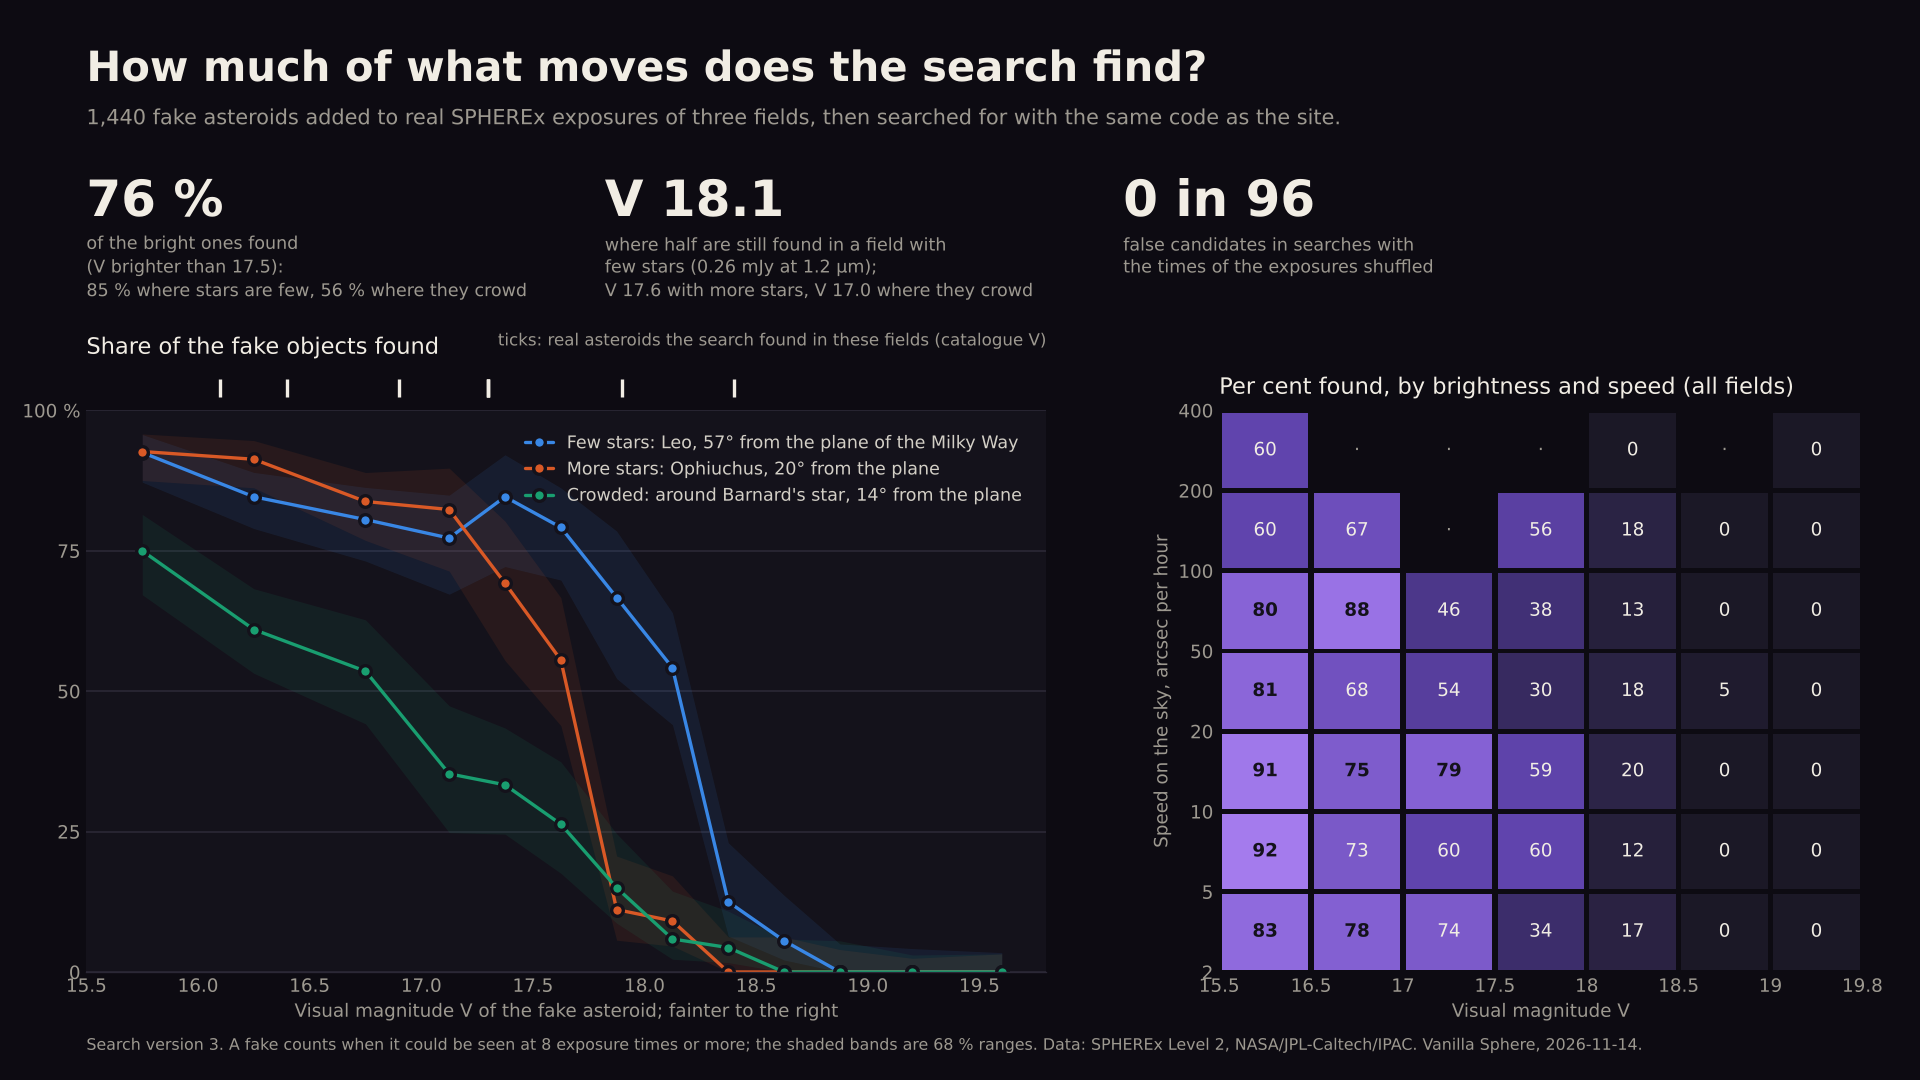
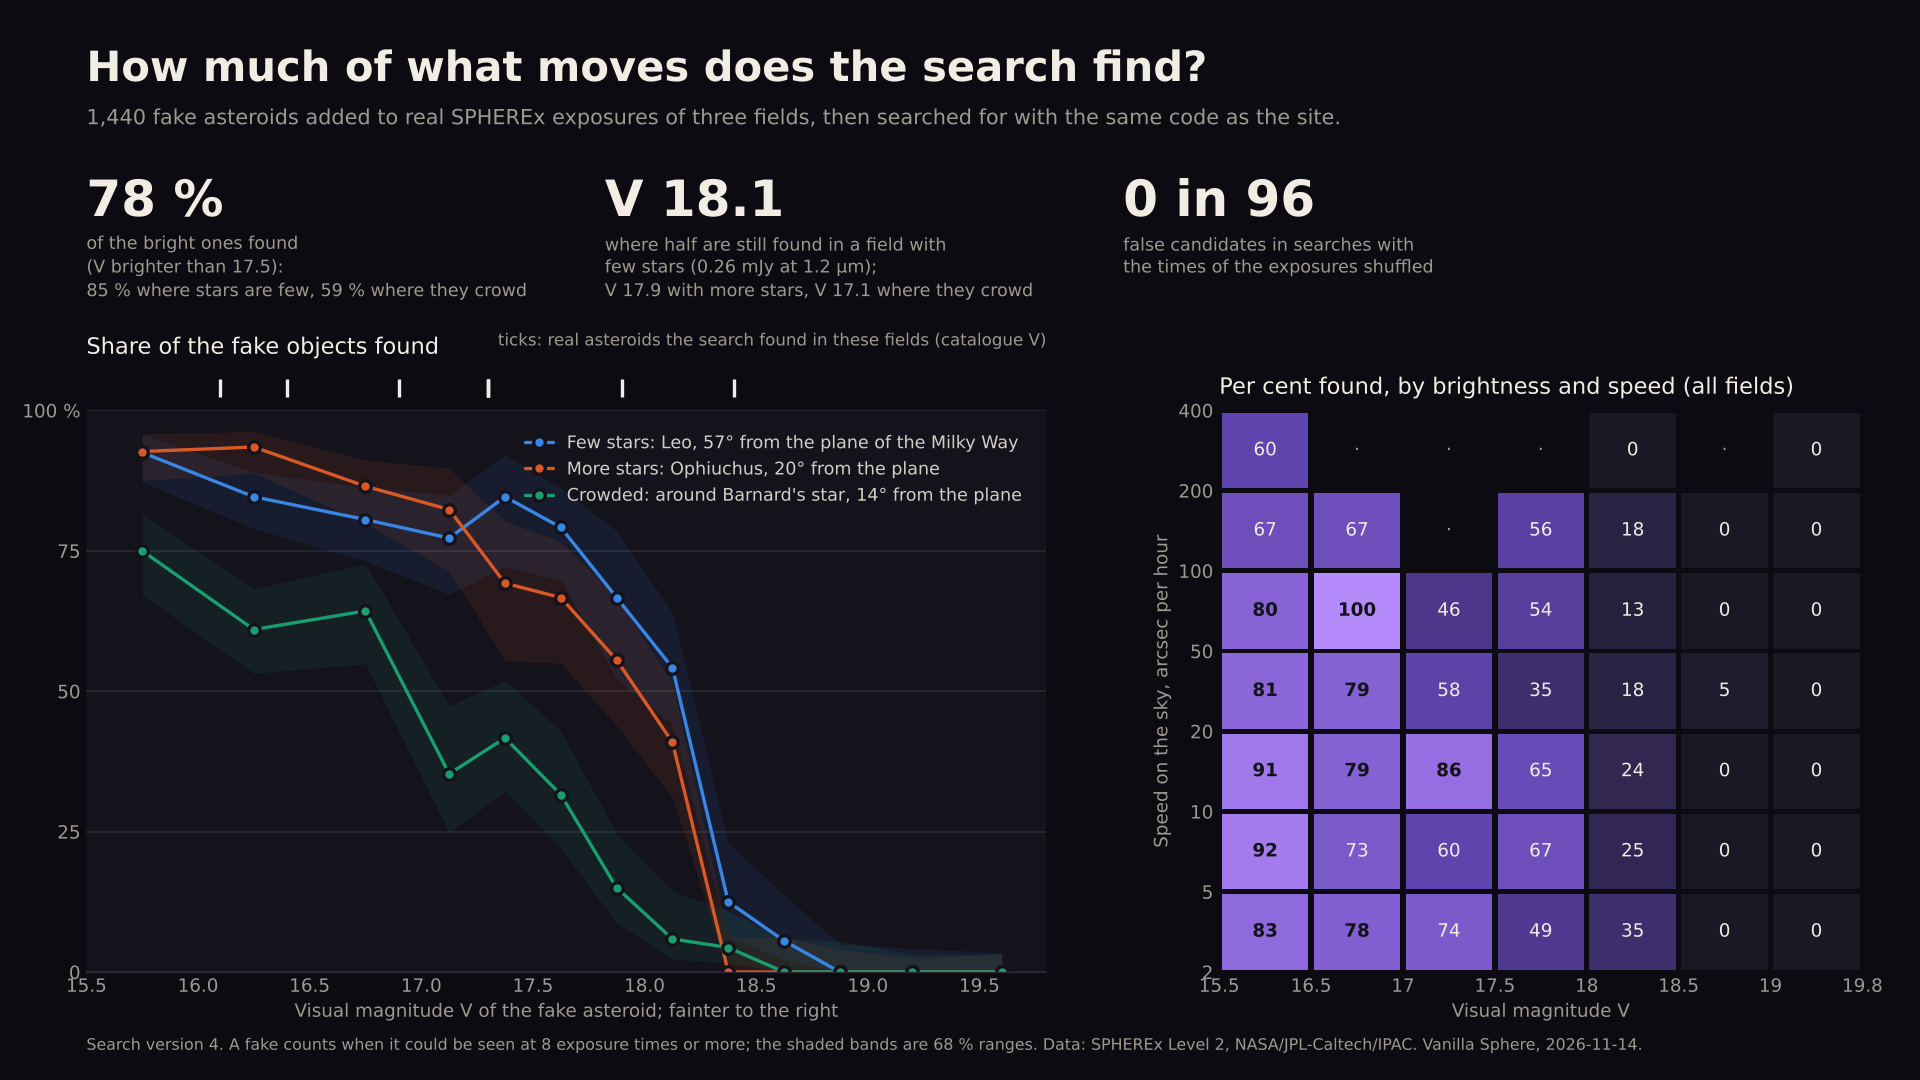
How much the search finds: measured again on search version 4, version by version in the documentation

diff --git a/web/index.html b/web/index.html
@@ -11,20 +11,20 @@
 <meta property="og:title" content="Vanilla Sphere - watch the infrared sky change">
 <meta property="og:description" content="Pick any spot on the sky map and watch NASA SPHEREx images of it play as a movie.">
 <meta property="og:url" content="https://vanillasphere.com/">
-<meta property="og:image" content="https://vanillasphere.com/static/og.png?v=61">
+<meta property="og:image" content="https://vanillasphere.com/static/og.png?v=62">
 <meta property="og:image:width" content="1200">
 <meta property="og:image:height" content="630">
 <meta name="twitter:card" content="summary_large_image">
 <meta name="twitter:title" content="Vanilla Sphere - watch the infrared sky change">
 <meta name="twitter:description" content="Pick any spot on the sky map and watch NASA SPHEREx images of it play as a movie.">
-<meta name="twitter:image" content="https://vanillasphere.com/static/og.png?v=61">
-<link rel="icon" href="/static/favicon.svg?v=61" type="image/svg+xml">
-<link rel="apple-touch-icon" href="/static/apple-touch-icon.png?v=61">
+<meta name="twitter:image" content="https://vanillasphere.com/static/og.png?v=62">
+<link rel="icon" href="/static/favicon.svg?v=62" type="image/svg+xml">
+<link rel="apple-touch-icon" href="/static/apple-touch-icon.png?v=62">
 <link rel="preload" href="/static/fonts/HankenGrotesk.woff2" as="font" type="font/woff2" crossorigin>
 <link rel="preload" href="/static/fonts/GeistMono.woff2" as="font" type="font/woff2" crossorigin>
-<link rel="stylesheet" href="/static/style.css?v=61">
-<link rel="stylesheet" href="/static/depth.css?v=61">
-<link rel="stylesheet" href="/static/completeness.css?v=61">
+<link rel="stylesheet" href="/static/style.css?v=62">
+<link rel="stylesheet" href="/static/depth.css?v=62">
+<link rel="stylesheet" href="/static/completeness.css?v=62">
 </head>
 <body>
 <header class="bar">
@@ -388,23 +388,23 @@
   </div>
 </div>
 
-<script src="/static/i18n.js?v=61"></script>
-<script src="/static/lore.js?v=61"></script>
-<script src="/static/hints.js?v=61"></script>
-<script src="/static/atlas.js?v=61"></script>
-<script src="/static/starmap.js?v=61"></script>
-<script src="/static/ambient.js?v=61"></script>
-<script src="/static/overtime.js?v=61"></script>
-<script src="/static/exports.js?v=61"></script>
-<script src="/static/movers.js?v=61"></script>
-<script src="/static/completeness.js?v=61"></script>
-<script src="/static/linelist.js?v=61"></script>
-<script src="/static/insight.js?v=61"></script>
-<script src="/static/redshift.js?v=61"></script>
-<script src="/static/depth.js?v=61"></script>
-<script src="/static/showcase.js?v=61"></script>
-<script src="/static/apilist.js?v=61"></script>
-<script src="/static/app.js?v=61"></script>
+<script src="/static/i18n.js?v=62"></script>
+<script src="/static/lore.js?v=62"></script>
+<script src="/static/hints.js?v=62"></script>
+<script src="/static/atlas.js?v=62"></script>
+<script src="/static/starmap.js?v=62"></script>
+<script src="/static/ambient.js?v=62"></script>
+<script src="/static/overtime.js?v=62"></script>
+<script src="/static/exports.js?v=62"></script>
+<script src="/static/movers.js?v=62"></script>
+<script src="/static/completeness.js?v=62"></script>
+<script src="/static/linelist.js?v=62"></script>
+<script src="/static/insight.js?v=62"></script>
+<script src="/static/redshift.js?v=62"></script>
+<script src="/static/depth.js?v=62"></script>
+<script src="/static/showcase.js?v=62"></script>
+<script src="/static/apilist.js?v=62"></script>
+<script src="/static/app.js?v=62"></script>
 <p id="netnote" class="netnote" role="status" hidden>Updating the site, back in a moment…</p>
 </body>
 </html>

diff --git a/docs/mover-completeness.md b/docs/mover-completeness.md
@@ -14,87 +14,92 @@ often it reports a path where nothing moves (its false alarms).
 
 ## Results
 
-Search version 3, measured on 2026-11-14: 240 rounds in three fields, 1,440 fake asteroids (983 of them could be seen at 8 exposure times or more and count) and 1,440 fake bodies without heat (938 count). The figures are about the asteroids unless a line says otherwise.
+Search version 4, measured on 2026-11-14: 240 rounds in three fields, 1,440 fake asteroids (983 of them could be seen at 8 exposure times or more and count) and 1,440 fake bodies without heat (938 count). The figures are about the asteroids unless a line says otherwise.
 
 | | Few stars | More stars | Crowded | The three together |
 | --- | --- | --- | --- | --- |
-| Bright fakes found (V < 17.5) | 85 % (138 of 163) | 87 % (134 of 154) | 56 % (81 of 146) | 76 % (353 of 463) |
-| Bright fakes strong (V < 17.5) | 72 % (117 of 163) | 77 % (119 of 154) | 44 % (64 of 146) | 65 % (300 of 463) |
-| Magnitude where half are still found | V 18.1 | V 17.6 | V 17.0 | V 17.6 |
-| Magnitude where half are still strong | V 18.0 | V 17.6 | V 16.6 | V 17.5 |
-| 68 % range of that magnitude (found) | 18.06 to 18.21 | 17.46 to 17.67 | 16.77 to 17.11 | |
-| That magnitude as flux at 1.24 µm (found) | 0.26 mJy | 0.42 mJy | 0.74 mJy | 0.42 mJy |
-| Bright fakes found, body without heat | 86 % | 82 % | 42 % | 70 % |
-| Half found, body without heat | V 18.3 | V 17.7 | - | V 17.8 |
+| Bright fakes found (V < 17.5) | 85 % (138 of 163) | 88 % (136 of 154) | 59 % (86 of 146) | 78 % (360 of 463) |
+| Bright fakes strong (V < 17.5) | 75 % (122 of 163) | 81 % (125 of 154) | 49 % (71 of 146) | 69 % (318 of 463) |
+| Magnitude where half are still found | V 18.1 | V 17.9 | V 17.1 | V 17.8 |
+| Magnitude where half are still strong | V 18.0 | V 17.8 | V 16.9 | V 17.7 |
+| 68 % range of that magnitude (found) | 18.05 to 18.22 | 17.75 to 18.02 | 16.97 to 17.27 | |
+| That magnitude as flux at 1.24 µm (found) | 0.26 mJy | 0.32 mJy | 0.64 mJy | 0.36 mJy |
+| Bright fakes found, body without heat | 86 % | 82 % | 44 % | 71 % |
+| Half found, body without heat | V 18.3 | V 17.9 | - | V 18.1 |
 | Fakes that count | 327 | 336 | 320 | 983 |
 | Exposures of the field | 553 | 713 | 518 | |
-| Paths of the search without fakes, kept | 80 of 80 | 471 of 480 | 80 of 80 | 631 of 640 |
+| Paths of the search without fakes, kept | 80 of 80 | 616 of 640 | 80 of 80 | 776 of 800 |
 
-**Found** is the evidence asked of an object a catalogue lists, **strong** the evidence asked of a path without a name. A found fake is placed to 0.37 arcsec (median) and its speed is right to 0.01 arcsec per hour (0.07 %).
+**Found** is the evidence asked of an object a catalogue lists, **strong** the evidence asked of a path without a name. A found fake is placed to 0.38 arcsec (median) and its speed is right to 0.009 arcsec per hour (0.06 %).
 
 The fields: **Few stars**: RA 167.1, Dec +5.22, Leo, 57° from the plane of the Milky Way; **More stars**: RA 248.34, Dec -16.98, Ophiuchus, 20° from the plane; **Crowded**: RA 269.46, Dec +4.74, around Barnard's star, 14° from the plane.
 
 ### What the numbers say
 
 - **Where stars are few or moderately many, six of seven bright asteroids are
-  found** (85 and 87 %). The seventh is not lost to noise: it crossed the
+  found** (85 and 88 %). The seventh is not lost to noise: it crossed the
   field in two visits, moved less than three pixels while it was watched, or
   passed in front of a star (table "Why bright fakes are missed").
 - **The limit is V 18.1 where stars are few**: 0.26 mJy at 1.24 µm, which puts
   about six times the noise of one exposure into the brightest pixel. It is
   set by the detection in single exposures, as it must be for a search that
-  links detections. With more stars it is V 17.6: the leftovers of stars
+  links detections. With more stars it is V 17.9: the leftovers of stars
   raise the noise, and 135 of the 713 exposures hold too many of them and
   are left out.
-- **Where stars crowd, half of the bright ones are lost** (56 % found, limit
-  V 17.0). In the field around Barnard's star 267 of the 518 exposures hold
+- **Where stars crowd, four of ten bright ones are lost** (59 % found, limit
+  V 17.1). In the field around Barnard's star 267 of the 518 exposures hold
   more leftovers of stars than a frame may have (80) and are left out, and a
-  quarter of the field is masked: 47 of the 65 bright fakes lost there were
+  quarter of the field is masked: 44 of the 60 bright fakes lost there were
   bright enough and still not detected in half of their exposures. This is
-  the largest loss the measurement found. Raising the limit of 80 to 250 on
-  the same 12 rounds found 24 of 44 bright fakes instead of 18, with no
-  false path; the search is being changed on that evidence.
-- **A path without a name is held to more, and that costs 10 to 13 points**
-  (72, 77 and 44 % strong). Version 3 asks for three visits with two
-  sightings in each. In these fields many visits give one exposure time, so
-  a fake seen at 11 of 11 times in 9 visits can fail the rule. Counting
-  every visit with a sighting (four of them, or three with two sightings)
-  gives 129 strong instead of 122 of the 151 found bright fakes of 48
-  rounds of the sparse field, and makes none of the 14 false paths strong;
-  the rest are real two and three visit cases.
+  the largest loss the measurement found, and the way out is known. With a
+  limit of 250 per frame and 5000 detections per pass the same 12 rounds
+  find 33 of 44 bright fakes instead of 22. They also gave one false path
+  with the evidence asked of a nameless one: two leftovers of stars hours
+  apart whose line passes a bright fast fake of the day before. The limit
+  is therefore not raised yet; a rule that keeps that path out (detections
+  at five or more exposure times, which 748 of the 753 strong fakes have)
+  is being tested by the thread that owns the search.
+- **A path without a name is held to more, and that costs 7 to 10 points**
+  (75, 81 and 49 % strong). Version 4 asks for three visits with two
+  sightings each, or four visits with any sighting. The second half of the
+  rule came out of this measurement (see the versions below).
 - **Speed matters little between 2 and 100 arcsec per hour.** Faster objects
   cross the 50 arcmin field in a few hours and are seen in fewer visits:
-  at 100 to 400 arcsec per hour 15 of the 25 brightest (V below 16.5) are
+  at 100 to 400 arcsec per hour 16 of the 25 brightest (V below 16.5) are
   found.
-- **Direction does not matter where stars are few** (82 to 93 %). In the
+- **Direction does not matter where stars are few or moderately many** (82
+  to 95 %). In the
   crowded field fakes moving east or west are found less often than those
-  moving north or south (43 % of 81 against 71 % of 65). The cause is not
+  moving north or south (48 % of 81 against 72 % of 65). The cause is not
   known.
 - **A body without heat of its own gives nearly the same** where stars are
-  few (86 % of the bright ones, half at V 18.3, range 18.24 to 18.32). Where
-  they crowd the heat helps: 56 % of the asteroids against 42 % of the
+  few (86 % of the bright ones, half at V 18.3, range 18.25 to 18.32). Where
+  they crowd the heat helps: 59 % of the asteroids against 44 % of the
   bodies without it, because the sky is emptier at 4 to 5 µm.
-- **Nothing false was shown.** In 240 rounds the search returned 36 paths that
-  are no fake. All are weak paths of two visits made of a few detections of
-  one fake and something else; none has the evidence asked of a path without
-  a name, so the site would show none of them unless a catalogue had an
-  object there. 96 searches with the times shuffled (32 per field, each
-  once by exposure and once by visit) gave one weak path and no candidate:
-  fewer than 0.03 false candidates per search at 95 %.
+- **Nothing false was shown.** In 240 rounds the search returned 42 paths that
+  are no fake. All are weak paths made of a few detections of one fake and
+  something else; none has the evidence asked of a path without a name, so
+  the site would show none of them unless a catalogue had an object there.
+  96 searches with the times shuffled (32 per field, each once by exposure
+  and once by visit) gave one weak path and no candidate: fewer than 0.03
+  false candidates per search at 95 %.
 - **The real objects agree.** The 11 asteroids the search found in these
   fields (V 11.8 to 18.4, 10.8 to 57 arcsec per hour) lie where the curve says
   objects are found, the faintest on its falling part. The paths of the
-  search without fakes came back in 631 of 640 cases. The nine misses are
-  all in the field with more stars, where two of the six such paths are weak
-  ones of two visits.
+  search without fakes came back in 776 of 800 cases. The 24 misses are all
+  in the field with more stars, where four of the eight such paths are weak
+  ones.
 
-Version 2 of the search, measured the same way before (120 rounds, bodies
-without heat): 86, 86 and 55 % of the bright ones found, and two false paths
-with the evidence then asked of a nameless one, both seen at 8 of 8 times.
-An earlier round had shown how such a path comes about: two fakes that
-hardly move, hours apart, joined into one fast path seen in two visits.
-This is the fault that the three visits of version 3 remove
-([the static pair](moving-objects.md#the-static-pair-why-a-path-without-a-name-needs-three-visits)).
+### Version by version
+
+The same measurement was made on every version of the search this evening,
+and each time it changed the next one.
+
+| Search | Bright fakes found (few stars, more stars, crowded) | Strong | What the measurement showed |
+| --- | --- | --- | --- |
+| Version 2, 120 rounds, bodies without heat only | 85, 85, 45 % | 81, 80, 43 % | Two false paths with the evidence then asked of a nameless one, both seen at 8 of 8 times. An earlier round had shown how: two fakes that hardly move, hours apart, joined into one fast path seen in two visits ([the static pair](moving-objects.md#the-static-pair-why-a-path-without-a-name-needs-three-visits)). |
+| Version 3, 240 rounds | 85, 87, 56 % | 72, 77, 44 % | No false path any more. But the three visits with two sightings each cost 10 to 13 points: where a visit gives one exposure time, a fake seen at 11 of 11 times in 9 visits failed the rule. And in the crowded field half of the bright ones are lost. |
+| Version 4, 240 rounds (this page; bodies without heat: 86, 82, 44 % found) | 85, 88, 59 % | 75, 81, 49 % | On the 36 rounds run on both versions with the same fakes: 7 more found and 12 more strong, none lost, no false path. The limit with more stars moved from V 17.6 to 17.9, because twice as many detections are linked per pass. |
 
 ![Share of the fake asteroids found, by brightness and field, and by brightness and speed](img/mover-completeness.png)
 
@@ -105,13 +110,13 @@ Share found (found / fakes that count), evidence asked of a known object.
 | V | Few stars | More stars | Crowded | Together |
 | --- | --- | --- | --- | --- |
 | 15.5 to 16.0 | 92 % (37/40) | 93 % (38/41) | 75 % (27/36) | 87 % (102/117) |
-| 16.0 to 16.5 | 85 % (44/52) | 91 % (42/46) | 61 % (25/41) | 80 % (111/139) |
-| 16.5 to 17.0 | 81 % (29/36) | 84 % (31/37) | 54 % (15/28) | 74 % (75/101) |
+| 16.0 to 16.5 | 85 % (44/52) | 93 % (43/46) | 61 % (25/41) | 81 % (112/139) |
+| 16.5 to 17.0 | 81 % (29/36) | 86 % (32/37) | 64 % (18/28) | 78 % (79/101) |
 | 17.0 to 17.25 | 77 % (17/22) | 82 % (14/17) | 35 % (6/17) | 66 % (37/56) |
-| 17.25 to 17.5 | 85 % (11/13) | 69 % (9/13) | 33 % (8/24) | 56 % (28/50) |
-| 17.5 to 17.75 | 79 % (19/24) | 56 % (10/18) | 26 % (5/19) | 56 % (34/61) |
-| 17.75 to 18.0 | 67 % (8/12) | 11 % (2/18) | 15 % (3/20) | 26 % (13/50) |
-| 18.0 to 18.25 | 54 % (13/24) | 9 % (2/22) | 6 % (1/17) | 25 % (16/63) |
+| 17.25 to 17.5 | 85 % (11/13) | 69 % (9/13) | 42 % (10/24) | 60 % (30/50) |
+| 17.5 to 17.75 | 79 % (19/24) | 67 % (12/18) | 32 % (6/19) | 61 % (37/61) |
+| 17.75 to 18.0 | 67 % (8/12) | 56 % (10/18) | 15 % (3/20) | 42 % (21/50) |
+| 18.0 to 18.25 | 54 % (13/24) | 41 % (9/22) | 6 % (1/17) | 37 % (23/63) |
 | 18.25 to 18.5 | 12 % (2/16) | 0 % (0/15) | 4 % (1/23) | 6 % (3/54) |
 | 18.5 to 18.75 | 6 % (1/18) | 0 % (0/15) | 0 % (0/16) | 2 % (1/49) |
 | 18.75 to 19.0 | 0 % (0/19) | 0 % (0/24) | 0 % (0/17) | 0 % (0/60) |
@@ -124,12 +129,12 @@ Per cent found, the three fields together (a dot: fewer than 5 fakes).
 
 | arcsec per hour | V 15.5 to 16.5 | V 16.5 to 17.0 | V 17.0 to 17.5 | V 17.5 to 18.0 | V 18.0 to 18.5 | V 18.5 to 19.0 | V 19.0 to 19.8 |
 | --- | --- | --- | --- | --- | --- | --- | --- |
-| 2 to 5 | 83 | 78 | 74 | 34 | 17 | 0 | 0 |
-| 5 to 10 | 92 | 73 | 60 | 60 | 12 | 0 | 0 |
-| 10 to 20 | 91 | 75 | 79 | 59 | 20 | 0 | 0 |
-| 20 to 50 | 81 | 68 | 54 | 30 | 18 | 5 | 0 |
-| 50 to 100 | 80 | 88 | 46 | 38 | 13 | 0 | 0 |
-| 100 to 200 | 60 | 67 | · | 56 | 18 | 0 | 0 |
+| 2 to 5 | 83 | 78 | 74 | 49 | 35 | 0 | 0 |
+| 5 to 10 | 92 | 73 | 60 | 67 | 25 | 0 | 0 |
+| 10 to 20 | 91 | 79 | 86 | 65 | 24 | 0 | 0 |
+| 20 to 50 | 81 | 79 | 58 | 35 | 18 | 5 | 0 |
+| 50 to 100 | 80 | 100 | 46 | 54 | 13 | 0 | 0 |
+| 100 to 200 | 67 | 67 | · | 56 | 18 | 0 | 0 |
 | 200 to 400 | 60 | · | · | · | 0 | · | 0 |
 
 ### By direction
@@ -139,27 +144,27 @@ Bright fakes found, by the direction they move in.
 | Field | North | East | South | West |
 | --- | --- | --- | --- | --- |
 | Few stars | 83 % (35/42) | 82 % (27/33) | 90 % (36/40) | 83 % (40/48) |
-| More stars | 93 % (40/43) | 83 % (25/30) | 90 % (34/38) | 81 % (35/43) |
-| Crowded | 76 % (22/29) | 46 % (20/44) | 67 % (24/36) | 40 % (15/37) |
-| Together | 85 % (97/114) | 67 % (72/107) | 82 % (94/114) | 70 % (90/128) |
+| More stars | 95 % (41/43) | 83 % (25/30) | 90 % (34/38) | 84 % (36/43) |
+| Crowded | 76 % (22/29) | 55 % (24/44) | 69 % (25/36) | 40 % (15/37) |
+| Together | 86 % (98/114) | 71 % (76/107) | 83 % (95/114) | 71 % (91/128) |
 
 ### Why bright fakes are missed
 
 | Field | Bright | Found | Path too short | Two visits or fewer | In front of stars | Other |
 | --- | --- | --- | --- | --- | --- | --- |
 | Few stars | 163 | 138 | 11 | 6 | 1 | 7 |
-| More stars | 154 | 134 | 0 | 1 | 4 | 15 |
-| Crowded | 146 | 81 | 0 | 7 | 47 | 11 |
-| Together | 463 | 353 | 11 | 14 | 52 | 33 |
+| More stars | 154 | 136 | 0 | 1 | 4 | 13 |
+| Crowded | 146 | 86 | 0 | 7 | 44 | 9 |
+| Together | 463 | 360 | 11 | 14 | 49 | 29 |
 
 ### False alarms
 
 | Field | Rounds | Paths that are no fake | of them strong | Shuffled searches | Paths, exposures shuffled | Candidates, visits shuffled |
 | --- | --- | --- | --- | --- | --- | --- |
 | Few stars | 80 | 6 | 0 | 32 | 1 | 0 |
-| More stars | 80 | 23 | 0 | 32 | 0 | 0 |
-| Crowded | 80 | 7 | 0 | 32 | 0 | 0 |
-| Together | 240 | 36 | 0 | 96 | 1 | 0 |
+| More stars | 80 | 28 | 0 | 32 | 0 | 0 |
+| Crowded | 80 | 8 | 0 | 32 | 0 | 0 |
+| Together | 240 | 42 | 0 | 96 | 1 | 0 |
 
 Seen in two visits only: 65 of the 983 fakes that count. Upper limit (95 %) on false candidates: 0.0312 per search.
 

diff --git a/docs/viewer.md b/docs/viewer.md
@@ -32,7 +32,7 @@ as static files.
 | `fonts/` | - | Hanken Grotesk and Geist Mono, self-hosted |
 
 Scripts are loaded in the order `i18n.js`, `lore.js`, `hints.js`, `atlas.js`, `starmap.js`, `ambient.js`, `overtime.js`, `exports.js`, `movers.js`, `completeness.js`, `linelist.js`, `insight.js`, `redshift.js`, `depth.js`, `showcase.js`, `app.js`.
-Asset URLs carry a version query (`?v=61`) that is raised when a file changes,
+Asset URLs carry a version query (`?v=62`) that is raised when a file changes,
 and `index.html` is served with `Cache-Control: no-cache`. A file asked for
 with a version query is served as `public, max-age=604800, immutable`, so a
 changed file must get a new version number; fonts and images are kept for a
